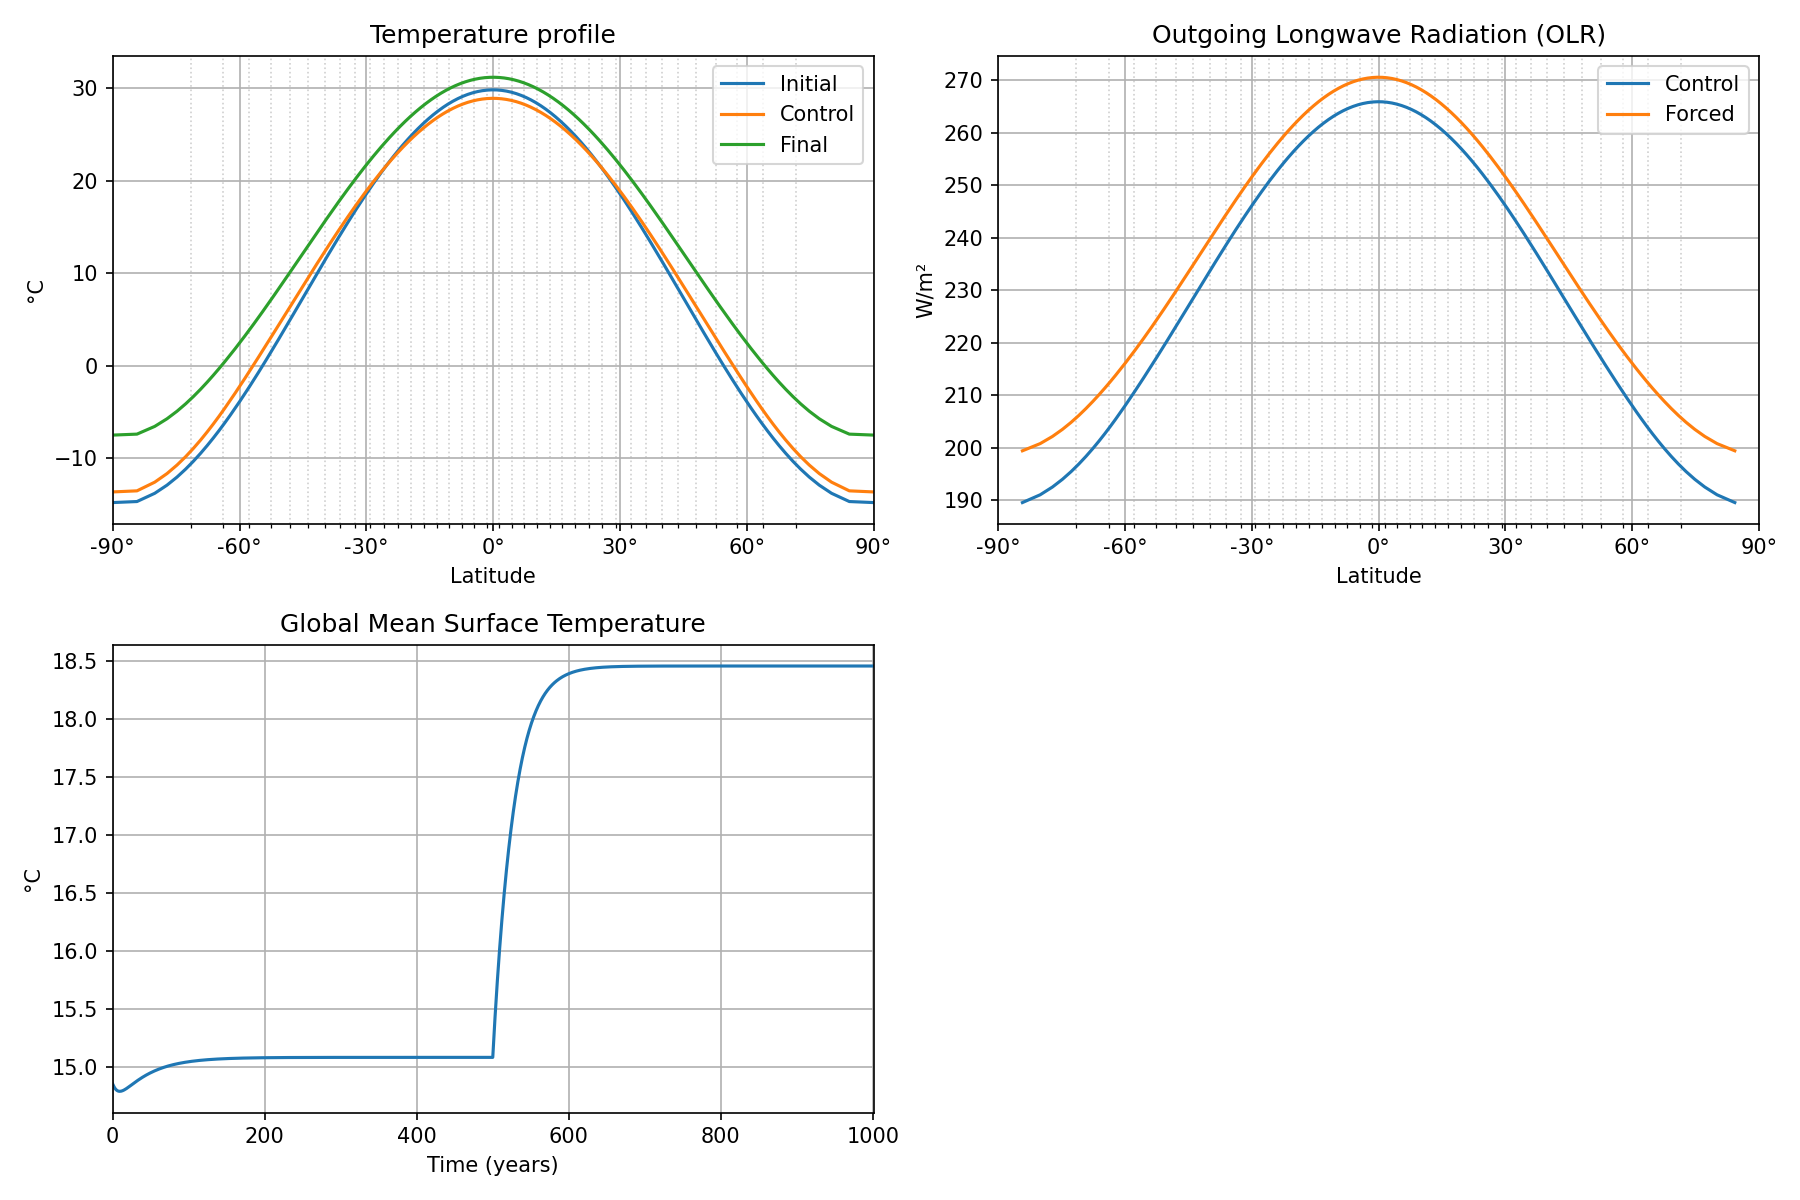
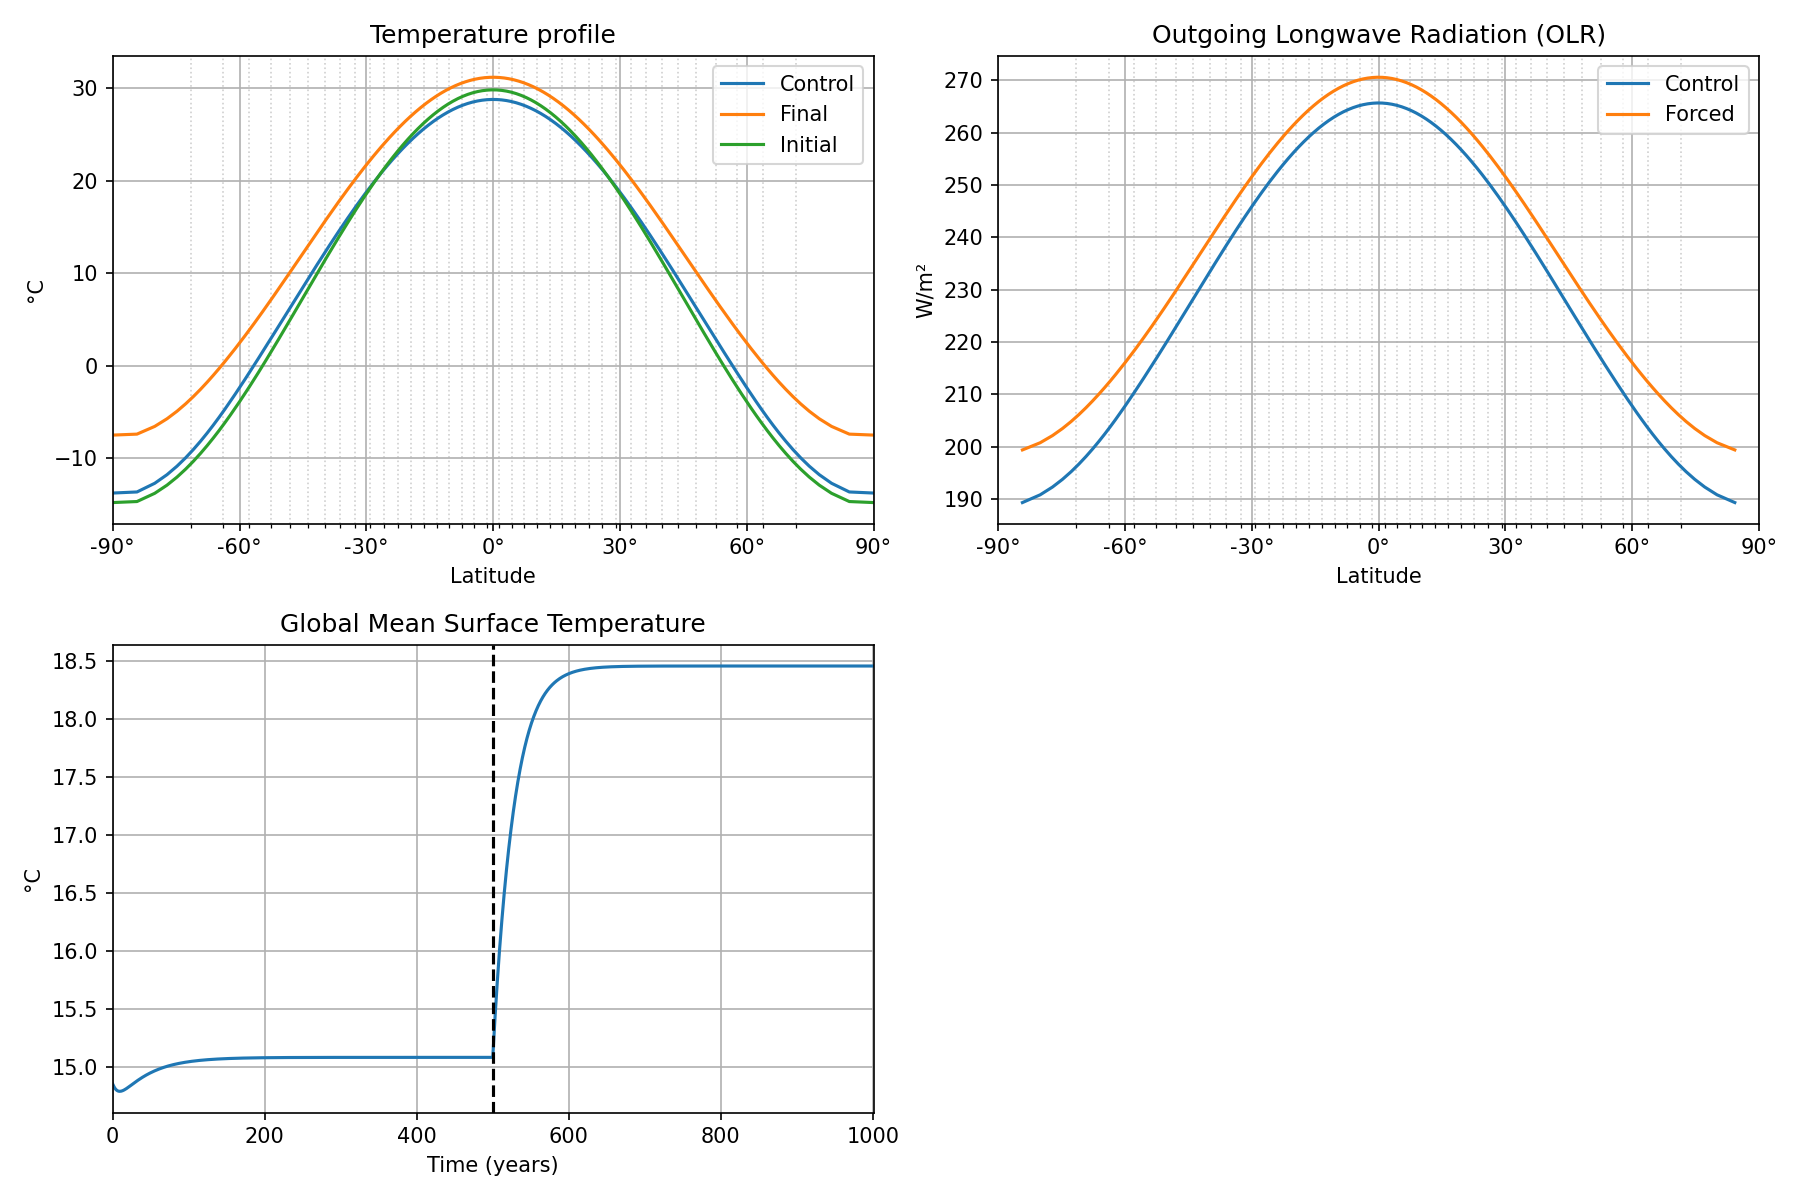
Made modifiers to output objects incl. vline for TimeSeries. Added polar amplification to summary.

diff --git a/outputs.py b/outputs.py
@@ -47,17 +47,20 @@ def run_all_outputs(outputs, outdir):
             f.write(summary)
 
 class OutPut:
-    def __init__(self):
+    def __init__(self, mods=[]): #mods can be a single modifier function (Parameters: output object, model object) or a list of them
         self.axes = []      # List of functions to plot on axes
         self.summaries = [] # List of functions to write summaries
+        self.mods = [mods] if callable(mods) else mods # List of modifier functions
 
     def initialize(self, model): pass
     def step(self, model, i): pass
-    def finalize(self, model): pass
+    def finalize(self, model):
+        for m in self.mods: # Call modifier functions if any
+            m(self, model)
     
 class DefaultOutput(OutPut):
-    def __init__(self):
-        super().__init__()
+    def __init__(self, mods=[]):
+        super().__init__(mods)
         self.Tg_series = []
         self.diags = {}
     
@@ -67,15 +70,18 @@ class DefaultOutput(OutPut):
         self.lat = np.degrees(np.arcsin(self.x))
 
     def step(self, model, i):
-        if i == model.nsteps//2:
+        if i+1 == model.nsteps//2:
             self.diags["_mid"] = self.simulation_diagnostics(model.funcs, model.x, model.T, model.params)
         # Tmean = model.T.mean() - 273.15
         # self.Tg_series.append(Tmean)
 
     def finalize(self, model):
         self.diags["_end"] = self.simulation_diagnostics(model.funcs, model.x, model.T, model.params)
+        self.dt_global = self.diags["_end"]["T_mean"] - self.diags["_mid"]["T_mean"]
+        self.polar_ampl = (self.diags["_end"]["T_poles"][1] - self.diags["_mid"]["T_poles"][1] - self.dt_global) / self.dt_global if self.dt_global != 0 else np.nan
         self.axes = [self.panel1, self.panel2]
         self.summaries = [lambda: self.summarize(model, self.diags)]
+        super().finalize(model)
     
     def summarize(self, model, diags):
         return textwrap.dedent(f"""
@@ -88,6 +94,7 @@ class DefaultOutput(OutPut):
         ΔT global (°C): {diags['_end']['T_mean']-diags['_mid']['T_mean']:.2f}
 
         North pole T control / forced (°C): {diags['_mid']['T_poles'][1]-273.15:.1f} / {diags['_end']['T_poles'][1]-273.15:.1f}
+        North polar amplification ( (ΔT_pole - ΔT_global)/ΔT_global ): {self.polar_ampl:.3f}
 
         Outgoing longwave radiation (OLR) control / forced (W m⁻²): {diags['_mid']['olr'].mean():.0f} / {diags['_end']['olr'].mean():.0f}
         Planetary albedo control / forced: {np.average(diags['_mid']['alpha'], weights=diags['_mid']['Q_x']):.3f} / {np.average(diags['_end']['alpha'], weights=diags['_end']['Q_x']):.3f}
@@ -97,7 +104,7 @@ class DefaultOutput(OutPut):
     def panel1(self, ax):
         """Plot initial, control and final temperature profiles."""
         lat_ext = np.r_[-90, self.lat, 90]
-        for case, label in zip(["_init", "_mid", "_end"], ["Initial", "Control", "Final"]):
+        for case, label in zip(["_mid", "_end", "_init"], ["Control", "Final", "Initial"]):
             T_ext = np.r_[self.diags[case]["T_poles"][0], self.diags[case]["T"], self.diags[case]["T_poles"][1]] - 273.15
             ax.plot(lat_ext, T_ext, label=label)
         ax.set_title("Temperature profile")
@@ -142,8 +149,8 @@ class DefaultOutput(OutPut):
         return dict(T=T, alpha=alpha, olr=olr, conv=conv, MHTrans_PW=MHTrans_PW, D=D, T_mean=T_mean, T_poles=T_poles, Q_x=Q_x)
 
 class TimeSeriesOutput(OutPut):
-    def __init__(self):
-        super().__init__()
+    def __init__(self, mods=[]):
+        super().__init__(mods)
         self.Tg_series = []
 
     def initialize(self, model):
@@ -155,6 +162,7 @@ class TimeSeriesOutput(OutPut):
 
     def finalize(self, model):
         self.axes = [self.panel]
+        super().finalize(model)
 
     def panel(self, ax):
         """Plot global mean temperature time series."""
@@ -180,3 +188,14 @@ class SeasonalOutput(OutPut):
         plt.title(f"Seasonal profile at step {t}")
         plt.xlabel("Latitude"); plt.ylabel("°C")
         plt.show()
+
+#Default function needed for default model with forcing
+def vline(output_obj, model):
+    """Modifier: wrap first panel to add a vertical line at half the years."""
+    old_panel = output_obj.axes[0]   # save the original function
+    
+    def new_panel(ax):
+        old_panel(ax)  # call original panel
+        ax.axvline(model.config['years'] // 2, color='k', ls='--')
+    
+    output_obj.axes[0] = new_panel   # replace it with the wrapped version

diff --git a/main.py b/main.py
@@ -7,7 +7,7 @@ CONFIG_FILE = 'config.json'
 
 if __name__ == "__main__":
     # Default config
-    config = {"years": 1000, "dt_years": 1, "nx": 200, "modes": [], "output_dir": "Results"}
+    config = {"years": 1000, "dt_years": 1, "nx": 200, "modes": [], "output_dir": "results"}
     # Read config from file if it exists and update defaults
     if os.path.exists(CONFIG_FILE):
         with open(CONFIG_FILE) as f:
@@ -32,7 +32,7 @@ if __name__ == "__main__":
     # Gather outputs from modes
     outputs_list = [o for m in modes_list for o in m.outputs]
     if not outputs_list:
-        outputs_list = [outputs.DefaultOutput(), outputs.TimeSeriesOutput()] #Forcing = True eller vline ...
+        outputs_list = [outputs.DefaultOutput(), outputs.TimeSeriesOutput(outputs.vline)] # Default outputs with forcing line
     
     # Create and run model
     climate_model = model.ClimateModel(config, params, modes_list, outputs_list)
